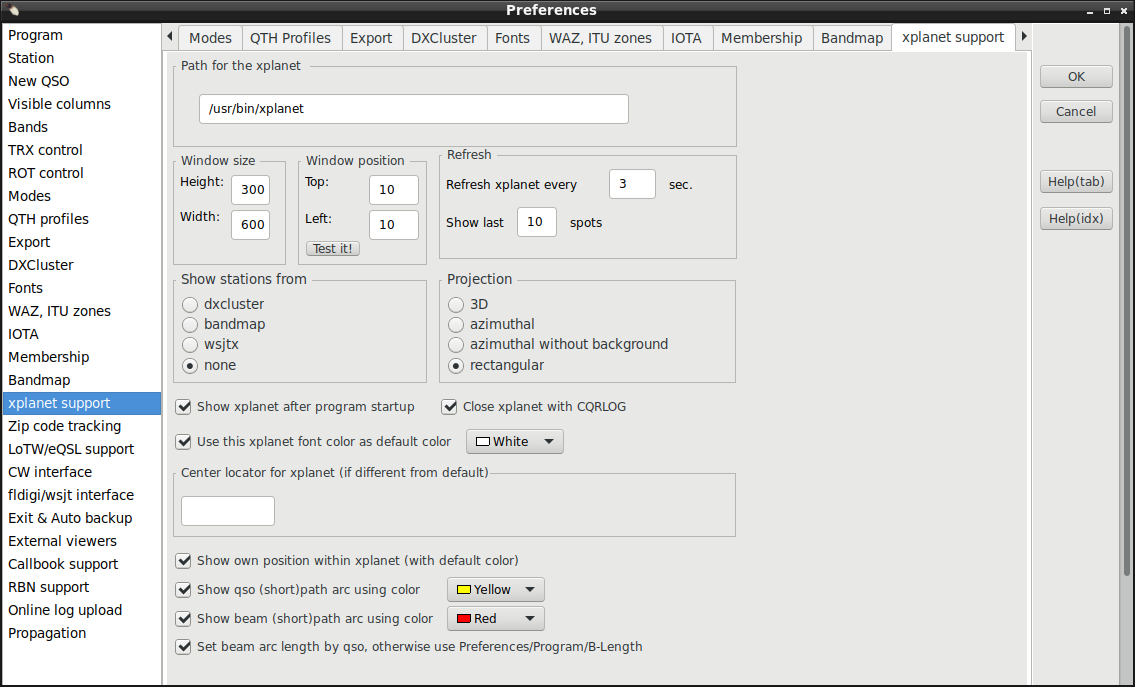
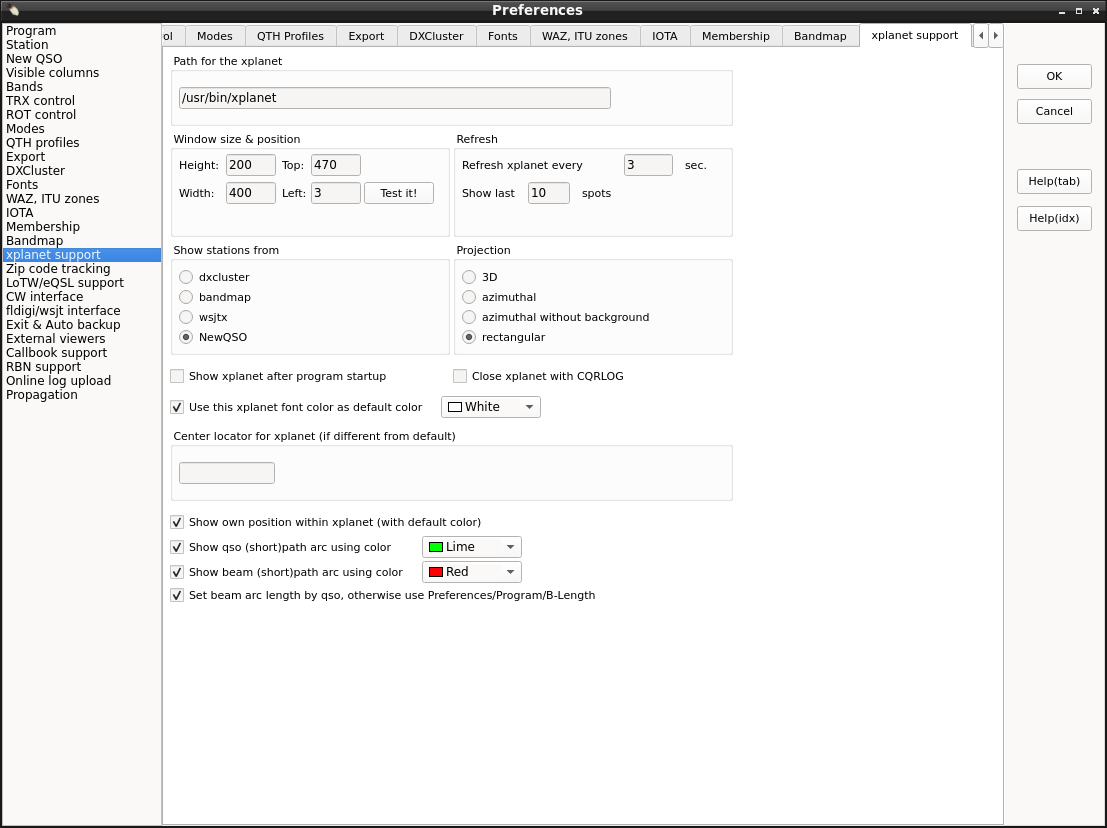
RBNMonitor:Fix: Replaced Thread event with timer.RBFilter and Preferences layout fixes.

diff --git a/src/changelog.html b/src/changelog.html
@@ -12,6 +12,7 @@
     What is new:
     <ul style="list-style: square;text-align:left; color: green;" >
     <li>(135)</li><ul>
+    <li>RBNMonitor:Fix: Replaced Thread event with timer.RBFilter and Preferences layout fixes.</li>
     <li>RBNMonitor:Fix: telnet connect clears dupe check list</li>
     <li>RBNFilter:Fix: layout fix for QT</li>
     <li>RBNMonitor:Fix: improved duplicate spot filtering</li>
